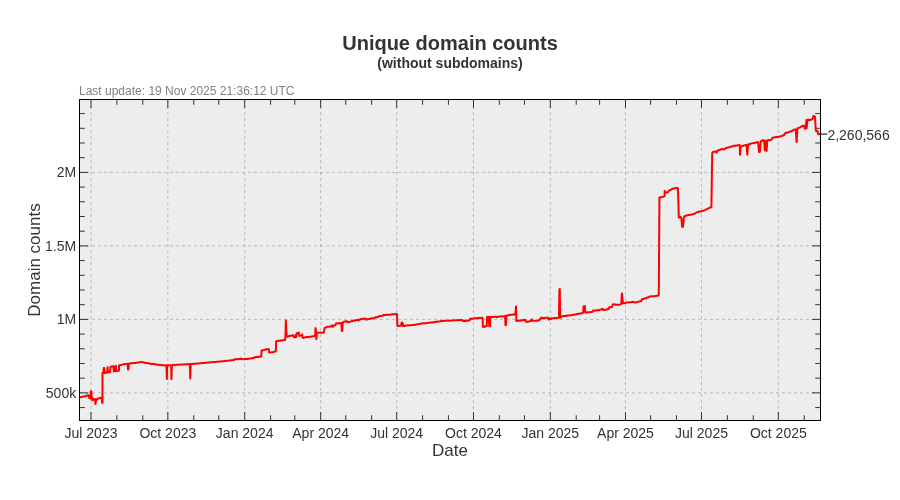
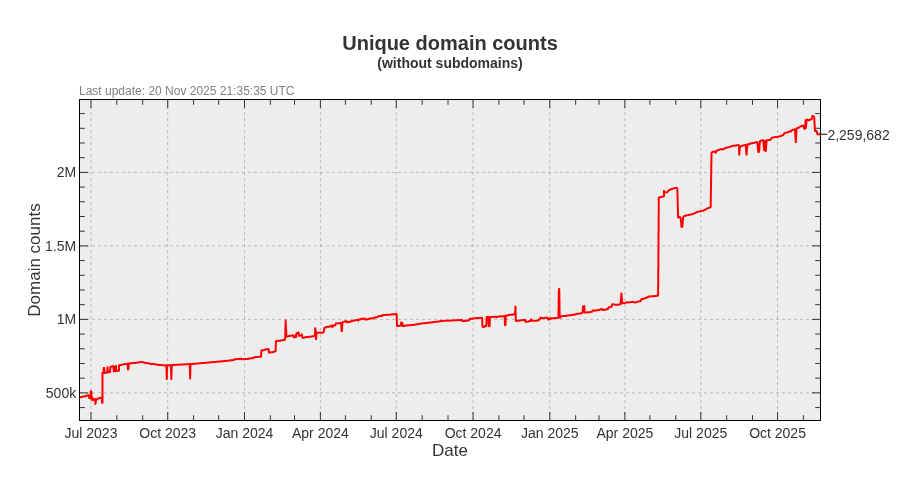
Update pages

diff --git a/README.md b/README.md
@@ -3,22 +3,22 @@ A blocklist file for blocking ads, trackers and malware domains.
 
[1 lines of base64/hex data omitted]
 
-- Unique domains: 2,959,070
-- Without subdomains: 2,260,566
-- Last update: 19 Nov 2025 21:36:12 UTC
-- Version: 2025.11.19.01
+- Unique domains: 2,958,202
+- Without subdomains: 2,259,682
+- Last update: 20 Nov 2025 21:35:35 UTC
+- Version: 2025.11.20.01
 
 
 ### Downloads:
 
 | Format             | Domain count      | Download Link |
 |:------------------ | -----------------:|:-------------:|
-| *Adblock Plus*     | 2,260,566 | [Download](https://dl.cenk.app/bad-hosts/bad-hosts-abp) |
-| *Wildcard domains* | 2,260,566 | [Download](https://dl.cenk.app/bad-hosts/bad-hosts-wildcard) |
-| *dnsmasq*          | 2,260,566 | [Download](https://dl.cenk.app/bad-hosts/bad-hosts-dnsmasq) |
-| *hosts*            | 2,959,070 | [Download](https://dl.cenk.app/bad-hosts/hosts) |
-| *hosts (ipv6)*     | 2,959,070 | [Download](https://dl.cenk.app/bad-hosts/hosts-ipv6) |
-| *Plain domains*    | 2,959,070 | [Download](https://dl.cenk.app/bad-hosts/bad-hosts-domains) |
+| *Adblock Plus*     | 2,259,682 | [Download](https://dl.cenk.app/bad-hosts/bad-hosts-abp) |
+| *Wildcard domains* | 2,259,682 | [Download](https://dl.cenk.app/bad-hosts/bad-hosts-wildcard) |
+| *dnsmasq*          | 2,259,682 | [Download](https://dl.cenk.app/bad-hosts/bad-hosts-dnsmasq) |
+| *hosts*            | 2,958,202 | [Download](https://dl.cenk.app/bad-hosts/hosts) |
+| *hosts (ipv6)*     | 2,958,202 | [Download](https://dl.cenk.app/bad-hosts/hosts-ipv6) |
+| *Plain domains*    | 2,958,202 | [Download](https://dl.cenk.app/bad-hosts/bad-hosts-domains) |
 
 ### Domain count history
 #### With subdomains
